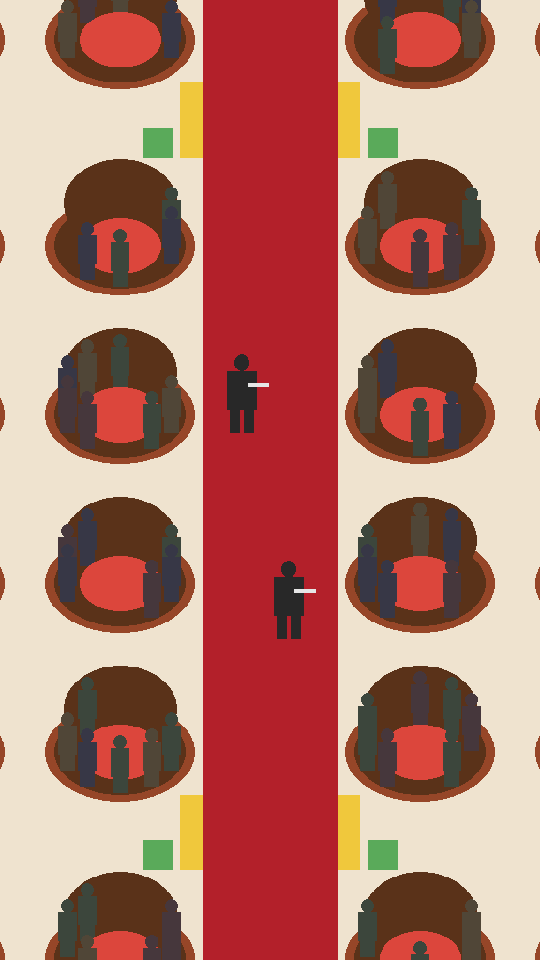
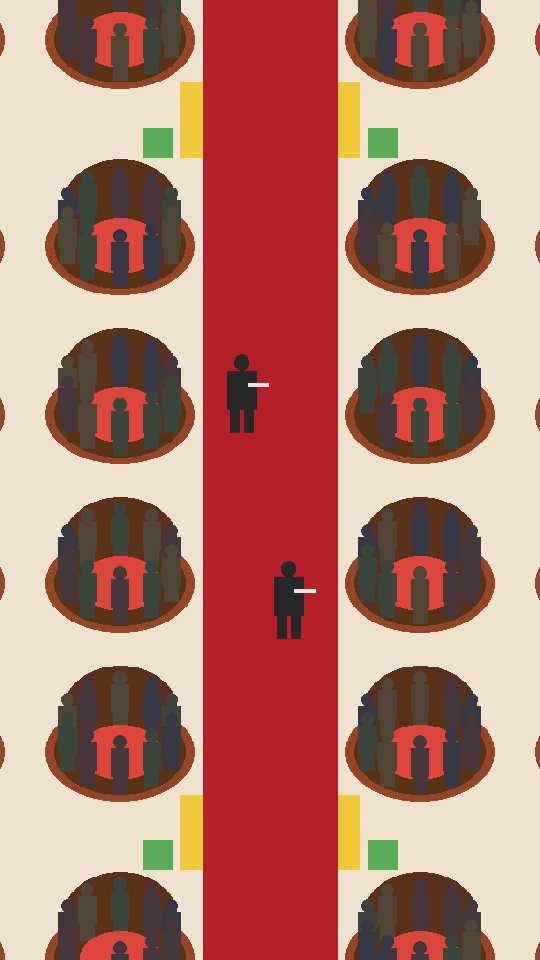
宴会厅 55 桌手机屏-中间：每桌坐 9～10 人（阿鱼定「9-10 人一桌」，4～7 作废），间距不动；回执里截取范围改正为 y 1000～2024

diff --git a/godot/tools/layout_55/make_board55.py b/godot/tools/layout_55/make_board55.py
@@ -522,7 +522,7 @@ def draw_stander(g, sx, sy, col, tray=True):
 
 def middle_with_people(items, tid, door, stand_top, rail_foot, out_path):
     """手机屏-中间（01 D 9/25：阿鱼问 55 桌会不会看着太挤）：两条横走道之间那段（第 4～7 排），
-    每桌随机坐 4～7 个人（坐着 62 高的剪影，坐在椅子的位置上），红毯上站两个服务员（84）；别的图照旧不放人"""
+    每桌随机坐 9～10 个人（阿鱼 9/25 定，10 把椅子空 0～1 把；坐着 62 高的剪影，坐在椅子的位置上），红毯上站两个服务员（84）；别的图照旧不放人"""
     import random
     im = draw(items, False, tid, door, stand_top, rail_foot)
     g = ImageDraw.Draw(im)
@@ -539,7 +539,7 @@ def middle_with_people(items, tid, door, stand_top, rail_foot, out_path):
         if fy + fh < y0 - 20 or fy > y0 + VIEW[1] + 80:
             continue
         cx, cyy = fx + fw / 2, fy + fh / 2
-        n = rng.randint(4, 7)
+        n = rng.randint(9, 10)   # 阿鱼 9/25：「人不能少做，标准就是 9-10 人一桌」（04 第 47 版的 4～7 作废）
         chairs = sorted(rng.sample(range(10), n))
         import math
         pts = []
@@ -555,7 +555,9 @@ def middle_with_people(items, tid, door, stand_top, rail_foot, out_path):
         draw_table(g, it, "top")    # 桌面盖住后排人的腿
         for p in sorted(front, key=lambda p: p[1]):
             draw_sitter(g, int(p[0]), int(p[1]), cols[rng.randrange(4)])
-        seated += n
+        vx0 = CX - VIEW[0] // 2
+        if fx + fw > vx0 and fx < vx0 + VIEW[0] and fy + fh > y0 and it["box"][1] < y0 + VIEW[1]:
+            seated += n   # 只数这一屏里看得见的桌
     # 红毯上两个服务员
     wy = [rows_y[r0 + 1] + 20, rows_y[r1 - 1] + 60]
     draw_stander(g, CX - 30, wy[0], (40, 40, 40))
@@ -617,7 +619,7 @@ def main():
     clean.crop((vx, 0, vx + VIEW[0], VIEW[1])).resize((540, 960), Image.NEAREST).save(os.path.join(OUT, "宴会厅55桌-手机屏-舞台.png"))
     open(os.path.join(OUT, "宴会厅55桌-摆位表.md"), "w", encoding="utf-8").write(table_md(items, bad, gaps))
     my, seated = middle_with_people(items, tid, door, stand_top, rail_foot, os.path.join(OUT, "宴会厅55桌-手机屏-中间.png"))
-    print("手机屏-中间：画布 y %d～%d，这一屏里的桌坐了 %d 人（每桌 4～7）、红毯上 2 个服务员" % (my, my + VIEW[1], seated))
+    print("手机屏-中间：画布 y %d～%d，这一屏里的桌坐了 %d 人（每桌 9～10）、红毯上 2 个服务员" % (my, my + VIEW[1], seated))
     print("画布 %d×%d，东西 %d 件，主桌 + T1～T%d" % (W, H, len(items), N_T))
     print("自检：", "全过" if not bad else bad)
     print("行与行之间画面上露的地面最窄 %d（不算地毯 %d）" % gaps)

diff --git a/godot/回执/宴会厅55桌-摆位底图-回执.md b/godot/回执/宴会厅55桌-摆位底图-回执.md
@@ -14,7 +14,7 @@
 | `宴会厅55桌-摆位表.md` | 183 件，每件一行：名字、画出来的框（左上角 x/y、宽、高）、占地、依据 |
 | `宴会厅55桌-手机屏-进门.png` | 手机竖屏视野（镜头 960/1024 倍，一屏看画布 576×1024）：大门口那一屏 |
 | `宴会厅55桌-手机屏-舞台.png` | 手机竖屏视野：婚礼台那一屏 |
-| `宴会厅55桌-手机屏-中间.png` | 手机竖屏视野：两条横走道之间那段（第 4～7 排，画布 y 910～1934）。**只有这一张放了人**（01 D 9/25，阿鱼问会不会太挤）：每桌随机坐 4～7 个（坐着 62 高、24 宽的剪影，坐在椅子的位置上，后排的坐在椅背前、桌面挡住腿），红毯上站 2 个服务员（84 高，端托盘）；随机数有种子，重跑一样 |
+| `宴会厅55桌-手机屏-中间.png` | 手机竖屏视野：两条横走道之间那段（第 4～7 排，画布 y 1000～2024，x 480～1056）。**只有这一张放了人**（01 D 9/25，阿鱼问会不会太挤）：每桌随机坐 9～10 个（阿鱼 9/25 定「9-10 人一桌」，10 把椅子空 0～1 把；04 第 47 版的 4～7 作废。坐着 62 高、24 宽的剪影，坐在椅子的位置上，后排的坐在椅背前、桌面挡住腿），红毯上站 2 个服务员（84 高，端托盘）；随机数有种子，重跑一样 |
 
 脚本 `tools/layout_55/make_board55.py`。所有数都写在脚本里，改数重跑，五样一起出，自检也一起跑。
 
